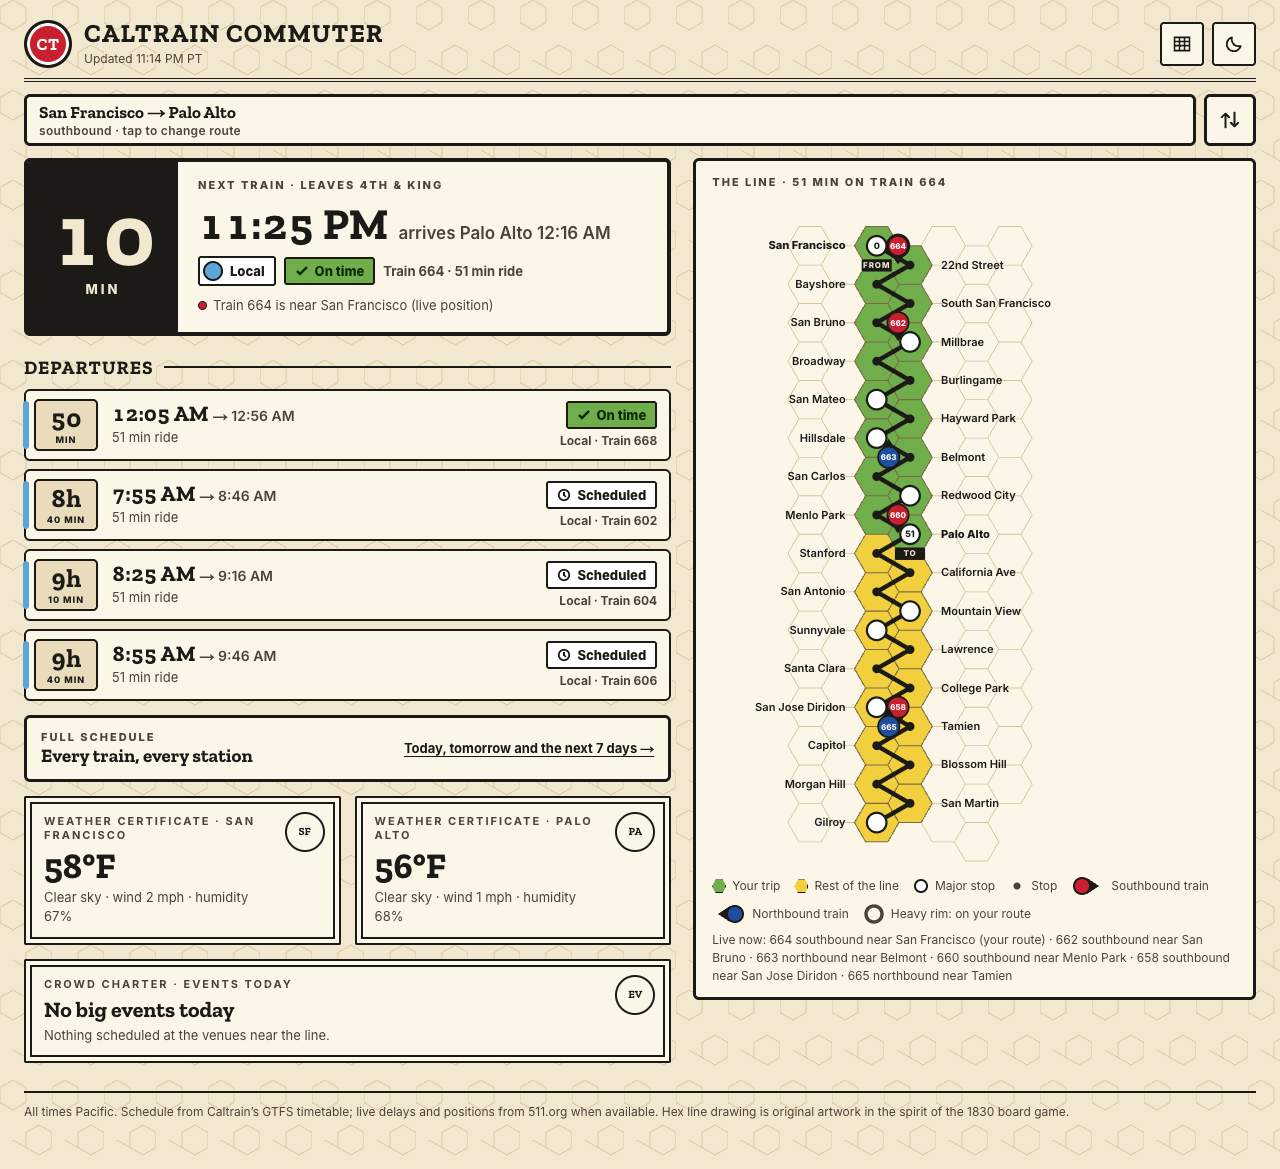
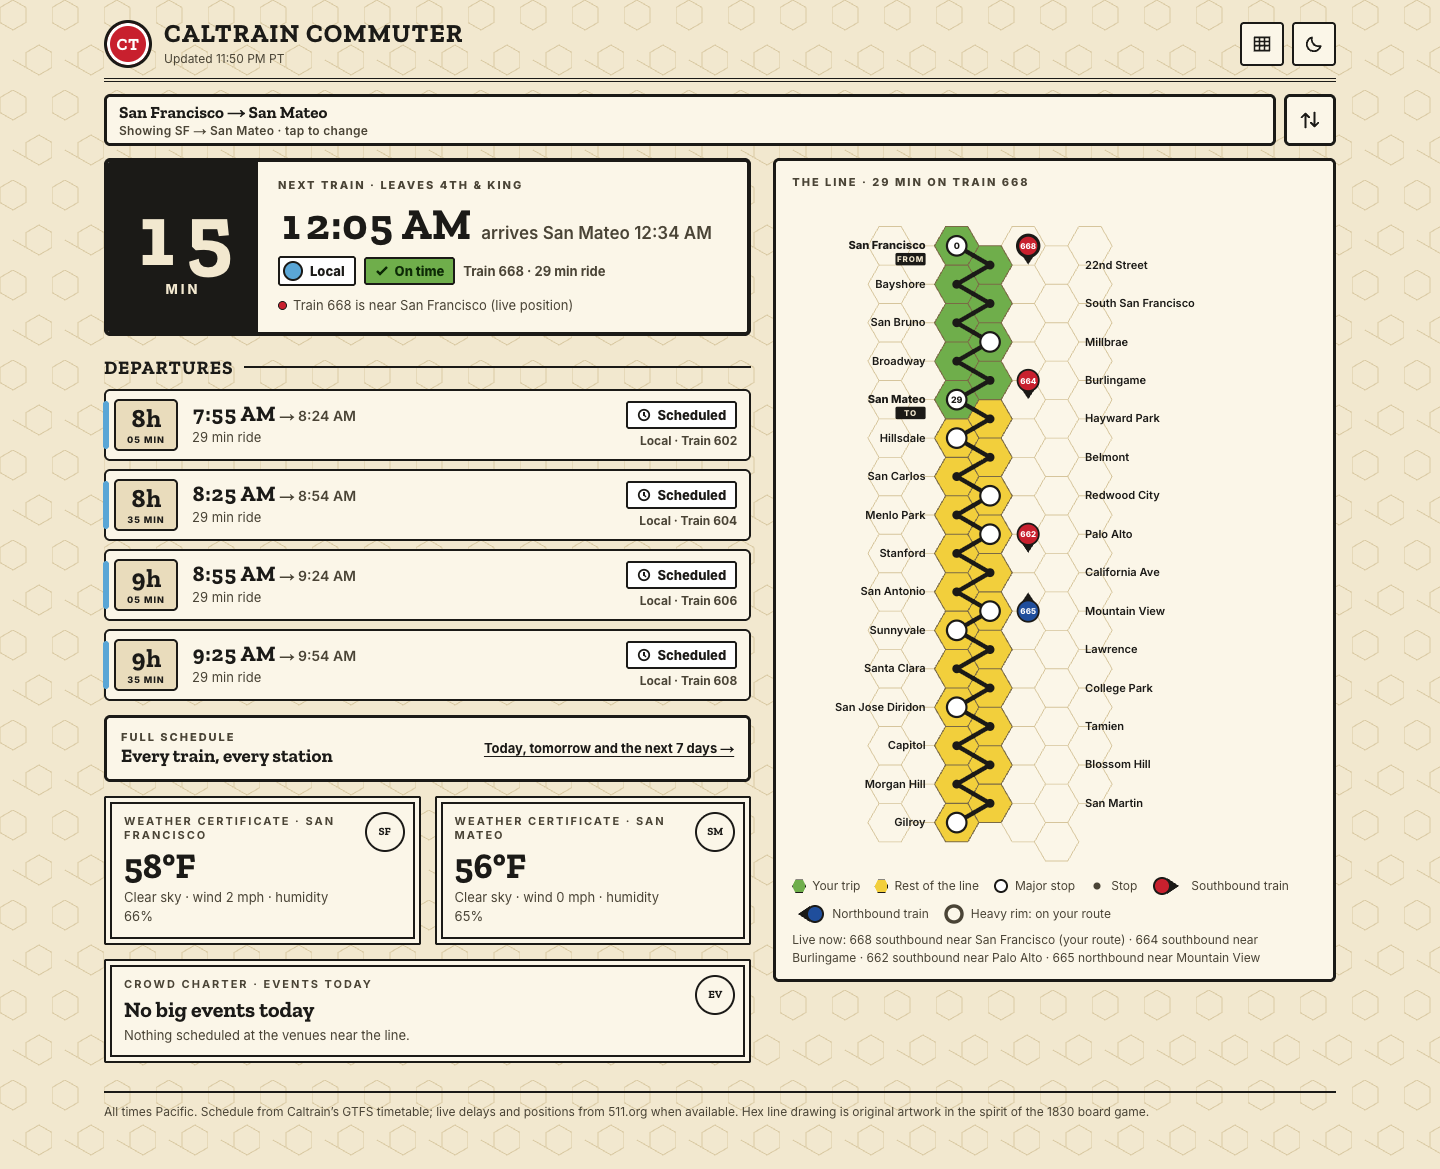
README: retake screenshots from the live site
New screenshots show the San Mateo default, the vertical line with the trip
in focus and train tokens beside the track, and the full board. The long
phone page is a JPEG to keep it small. The line description mentions the
phone view.

Changed region(s): [[0.0, 0.0, 1.0, 0.9547], [0.9375, 0.9239, 0.9688, 0.9547]]

diff --git a/README.md b/README.md
@@ -8,7 +8,7 @@ trains, the full schedule, weather and nearby events.
 Live: <https://caltrain-commuter.vercel.app>
 
 <p>
-  <img src="docs/images/phone-first-screen.png" alt="Phone, first screen: route, a black 10 MIN block with the next train's time, type and on-time status" width="260">
+  <img src="docs/images/phone-first-screen.png" alt="Phone, first screen: SF → San Mateo, a black minutes-to-go block with the next train's time, type, on-time status and live position" width="260">
   <img src="docs/images/phone-night-board.png" alt="The same screen on the night board: dark table, cream ink" width="260">
   <img src="docs/images/full-board-phone.png" alt="The full board on a phone: stations down the side, trains across, the next train highlighted" width="260">
 </p>
@@ -27,7 +27,10 @@ Live: <https://caltrain-commuter.vercel.app>
   to Gilroy: your trip in green, the rest in yellow, cities as white circles,
   stops as dots. Every train reporting a position is a token with its real
   number: red southbound, blue northbound, each pointing the way it is going;
-  trains on your route have a heavier rim. A text line lists them too.
+  trains on your route have a heavier rim, and tokens sit beside the track
+  so they never hide a station. On a phone it shows your trip plus two
+  stations each side, with "Show whole line" for all 31; trains outside the
+  view are counted ("+2 more trains on the line"). A text line lists them too.
 - **Full board.** The whole timetable for today, tomorrow or any of the next
   seven days: stations down the side, trains across, per direction, with your
   stops and the next train highlighted, PM times in bold and "↓" where a train
@@ -46,7 +49,7 @@ Live: <https://caltrain-commuter.vercel.app>
 
 <img src="docs/images/full-board-desktop.png" alt="Full board on desktop: Southbound, Sunday, every train with its times at every station" width="100%">
 
-<img src="docs/images/phone-full-page.png" alt="Phone, whole page" width="260">
+<img src="docs/images/phone-full-page.jpg" alt="Phone, whole page" width="260">
 
 ## Data sources
 
